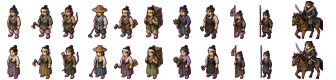
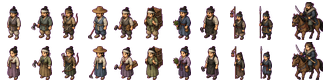
Fix generated character atlas cleanup

diff --git a/tools/render/test_generated_character_asset_pixels.py b/tools/render/test_generated_character_asset_pixels.py
@@ -13,6 +13,10 @@ RESIDENT_COLUMNS = 10
 ROWS = 2
 
 
+def is_key_pixel(r: int, g: int, b: int) -> bool:
+    return r > 190 and g < 100 and b > 170
+
+
 def sheet_path() -> Path:
     source = SOURCE.read_text(encoding="utf-8")
     match = re.search(r"src:\s*'(/assets/[^']+)'", source)
@@ -26,21 +30,41 @@ def alpha_bbox(image: Image.Image) -> tuple[int, int, int, int]:
     return bbox
 
 
+def resident_cell(image: Image.Image, row: int, col: int) -> Image.Image:
+    return image.crop((
+        col * RESIDENT_WIDTH,
+        row * SPRITE_HEIGHT,
+        (col + 1) * RESIDENT_WIDTH,
+        (row + 1) * SPRITE_HEIGHT,
+    ))
+
+
+def mounted_cell(image: Image.Image, row: int) -> Image.Image:
+    x0 = RESIDENT_COLUMNS * RESIDENT_WIDTH
+    return image.crop((x0, row * SPRITE_HEIGHT, x0 + MOUNTED_WIDTH, (row + 1) * SPRITE_HEIGHT))
+
+
 def test_sheet_dimensions() -> None:
     image = Image.open(sheet_path()).convert("RGBA")
     assert image.size == (RESIDENT_COLUMNS * RESIDENT_WIDTH + MOUNTED_WIDTH, ROWS * SPRITE_HEIGHT)
+
+
+def test_sheet_has_no_nontransparent_key_pixels() -> None:
+    image = Image.open(sheet_path()).convert("RGBA")
+    key_pixels = [
+        (x, y)
+        for y in range(image.height)
+        for x in range(image.width)
+        if image.getpixel((x, y))[3] > 0 and is_key_pixel(*image.getpixel((x, y))[:3])
+    ]
+    assert not key_pixels, f"found {len(key_pixels)} nontransparent key pixels"
 
 
 def test_resident_cells_are_not_empty() -> None:
     image = Image.open(sheet_path()).convert("RGBA")
     for row in range(ROWS):
         for col in range(RESIDENT_COLUMNS):
-            cell = image.crop((
-                col * RESIDENT_WIDTH,
-                row * SPRITE_HEIGHT,
-                (col + 1) * RESIDENT_WIDTH,
-                (row + 1) * SPRITE_HEIGHT,
-            ))
+            cell = resident_cell(image, row, col)
             left, top, right, bottom = alpha_bbox(cell)
             assert right - left >= 8
             assert bottom - top >= 16
@@ -50,16 +74,25 @@ def test_resident_cells_are_not_empty() -> None:
 
 def test_mounted_raider_cells_are_wide() -> None:
     image = Image.open(sheet_path()).convert("RGBA")
-    x0 = RESIDENT_COLUMNS * RESIDENT_WIDTH
     for row in range(ROWS):
-        cell = image.crop((x0, row * SPRITE_HEIGHT, x0 + MOUNTED_WIDTH, (row + 1) * SPRITE_HEIGHT))
+        cell = mounted_cell(image, row)
         left, top, right, bottom = alpha_bbox(cell)
         assert right - left >= 30
         assert bottom - top >= 18
 
 
+def test_cells_are_bottom_aligned() -> None:
+    image = Image.open(sheet_path()).convert("RGBA")
+    for row in range(ROWS):
+        for col in range(RESIDENT_COLUMNS):
+            assert alpha_bbox(resident_cell(image, row, col))[3] == SPRITE_HEIGHT
+        assert alpha_bbox(mounted_cell(image, row))[3] == SPRITE_HEIGHT
+
+
 if __name__ == "__main__":
     test_sheet_dimensions()
+    test_sheet_has_no_nontransparent_key_pixels()
     test_resident_cells_are_not_empty()
     test_mounted_raider_cells_are_wide()
+    test_cells_are_bottom_aligned()
     print("generated character asset pixel tests passed")

diff --git a/tools/render/compose_generated_character_assets_v1.py b/tools/render/compose_generated_character_assets_v1.py
@@ -21,17 +21,19 @@ def is_key_pixel(r: int, g: int, b: int) -> bool:
     return r > 190 and g < 100 and b > 170
 
 
-def remove_key(image: Image.Image) -> Image.Image:
+def clear_key_pixels(image: Image.Image) -> Image.Image:
     rgba = image.convert("RGBA")
     pixels = rgba.load()
     for y in range(rgba.height):
         for x in range(rgba.width):
             r, g, b, a = pixels[x, y]
-            if is_key_pixel(r, g, b):
+            if a > 0 and is_key_pixel(r, g, b):
                 pixels[x, y] = (0, 0, 0, 0)
-            elif a > 0:
-                pixels[x, y] = (r, g, b, a)
     return rgba
+
+
+def remove_key(image: Image.Image) -> Image.Image:
+    return clear_key_pixels(image)
 
 
 def contiguous_runs(values: list[int], gap: int = 2) -> list[tuple[int, int]]:
@@ -116,9 +118,9 @@ def fit_to_cell(sprite: Image.Image, cell_width: int, cell_height: int, max_widt
     )
     cell = Image.new("RGBA", (cell_width, cell_height), (0, 0, 0, 0))
     x = (cell_width - resized.width) // 2
-    y = cell_height - resized.height - 1
-    cell.alpha_composite(resized, (x, y))
-    return cell
+    y = cell_height - resized.height
+    cell.alpha_composite(clear_key_pixels(resized), (x, y))
+    return clear_key_pixels(cell)
 
 
 def paste_cell(output: Image.Image, source: Image.Image, box: tuple[int, int, int, int], row: int, col: int) -> None:
@@ -143,6 +145,7 @@ def main() -> None:
     for row_index, boxes in enumerate(rows):
         for col_index, box in enumerate(boxes):
             paste_cell(output, source, box, row_index, col_index)
+    output = clear_key_pixels(output)
     OUTPUT.parent.mkdir(parents=True, exist_ok=True)
     output.save(OUTPUT)
     print(f"wrote {OUTPUT}")
